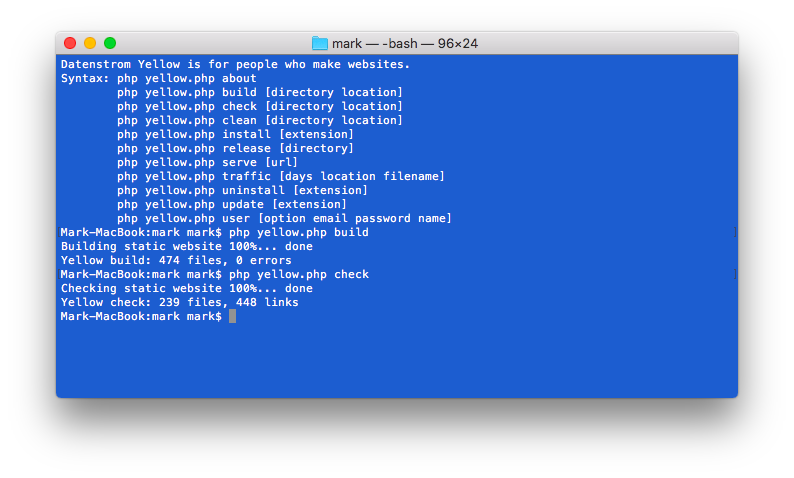
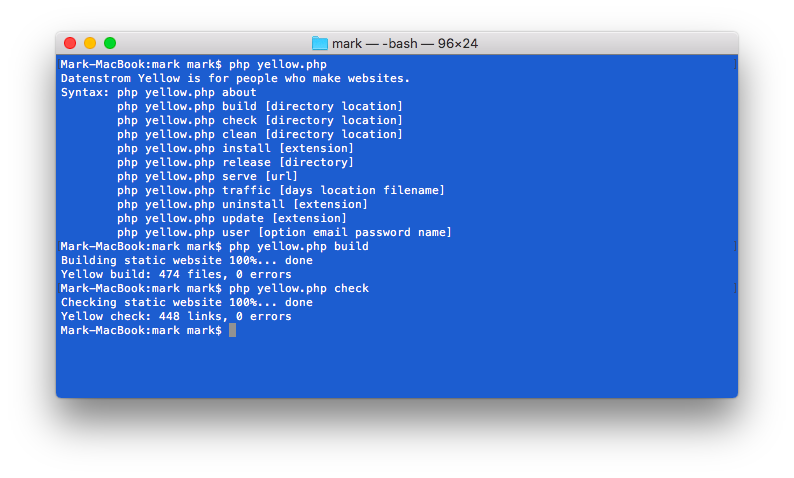
Updated extensions, usability improvements

Changed region(s): [[0.0605, 0.1172, 0.5743, 0.7029]]

diff --git a/features/traffic/traffic.php b/features/traffic/traffic.php
@@ -4,7 +4,7 @@
 // This file may be used and distributed under the terms of the public license.
 
 class YellowTraffic {
-    const VERSION = "0.8.2";
+    const VERSION = "0.8.3";
     const TYPE = "feature";
     public $yellow;         //access to API
     public $days;           //number of days
@@ -64,7 +64,7 @@ class YellowTraffic {
         if (empty($fileName)) {
             $path = $this->yellow->system->get("trafficLogDir");
             $regex = "/^".basename($this->yellow->system->get("trafficLogFile"))."$/";
-            $fileNames = $this->yellow->toolbox->getDirectoryEntries($path, $regex, true, false);
+            $fileNames = array_reverse($this->yellow->toolbox->getDirectoryEntries($path, $regex, true, false));
             list($statusCode, $sites, $content, $files, $search, $errors) = $this->analyseRequests($days, $location, $fileNames);
         } else {
             list($statusCode, $sites, $content, $files, $search, $errors) = $this->analyseRequests($days, $location, array($fileName));
@@ -86,7 +86,8 @@ class YellowTraffic {
         if (!empty($fileNames)) {
             $statusCode = 200;
             $timeStart = $timeFound = time();
-            $timeStop = time() - (60 * 60 * 24 * $days);
+            $timeStop = time() - (60*60*24*$days);
+            $percentShown = -1;
             $staticUrl = $this->yellow->system->get("staticUrl");
             list($scheme, $address, $base) = $this->yellow->lookup->getUrlInformation($staticUrl);
             $locationSearch = $this->yellow->system->get("searchLocation");
@@ -104,6 +105,11 @@ class YellowTraffic {
                             list($line, $ip, $dummy1, $dummy2, $timestamp, $method, $uri, $protocol, $status, $size, $referer, $userAgent) = $matches;
                             $timeFound = strtotime($timestamp);
                             if ($timeFound<$timeStop) break;
+                            $percent = $this->getProgressPercent(($timeStart-$timeFound)/3600, 24*$days, 5, 95);
+                            if ($percentShown!=$percent) {
+                                $percentShown = $percent;
+                                echo "\rCreating traffic analytics $percent%... ";
+                            }
                             $location = $this->getLocation($uri);
                             $referer = $this->getReferer($referer, "$address$base/");
                             if ($status<400) {
@@ -143,6 +149,7 @@ class YellowTraffic {
             unset($search["-"]);
             if ($locationFilter!="/") $search = array();
             $this->days = $timeStart!=$timeFound ? $days : 0;
+            echo "\rCreating traffic analytics 100%... done\n";
         } else {
             $statusCode = 500;
             $path = $this->yellow->system->get("trafficLogDir");
@@ -210,6 +217,14 @@ class YellowTraffic {
     // Return human readable status
     public function getStatusFormatted($statusCode) {
         return $this->yellow->toolbox->getHttpStatusFormatted($statusCode, true);
+    }
+    
+    // Return progress in percent
+    public function getProgressPercent($now, $total, $increments, $max)
+    {
+        $percent = intval(($max / $total) * $now);
+        if ($increments>1) $percent = intval($percent / $increments) * $increments;
+        return min($max, $percent);
     }
     
     // Return previous text line from file, false if not found

diff --git a/features/command/command.php b/features/command/command.php
@@ -4,7 +4,7 @@
 // This file may be used and distributed under the terms of the public license.
 
 class YellowCommand {
-    const VERSION = "0.8.5";
+    const VERSION = "0.8.6";
     const TYPE = "feature";
     const PRIORITY = "3";
     public $yellow;                     //access to API
@@ -263,12 +263,13 @@ class YellowCommand {
                 $statusCode = $this->checkStaticFiles($path, $location);
             } else {
                 $statusCode = 500;
-                $this->files = $this->links = 0;
+                $this->links = 0;
+                $this->errors = 1;
                 $fileName = $this->yellow->system->get("settingDir").$this->yellow->system->get("systemFile");
                 echo "ERROR checking files: Please configure StaticUrl in file '$fileName'!\n";
             }
-            echo "Yellow $command: $this->files file".($this->files!=1 ? "s" : "");
-            echo ", $this->links link".($this->links!=1 ? "s" : "")."\n";
+            echo "Yellow $command: $this->links link".($this->links!=1 ? "s" : "");
+            echo ", $this->errors error".($this->errors!=1 ? "s" : "")."\n";
         } else {
             $statusCode = 400;
             echo "Yellow $command: Invalid arguments\n";
@@ -279,7 +280,7 @@ class YellowCommand {
     // Check static files for broken links
     public function checkStaticFiles($path, $locationFilter) {
         $path = rtrim(empty($path) ? $this->yellow->system->get("staticDir") : $path, "/");
-        $this->files = $this->links = 0;
+        $this->links = $this->errors = 0;
         $regex = "/^[^.]+$|".$this->yellow->system->get("staticDefaultFile")."$/";
         $fileNames = $this->yellow->toolbox->getDirectoryEntriesRecursive($path, $regex, false, false);
         list($statusCodeFiles, $links) = $this->analyseLinks($path, $locationFilter, $fileNames);
@@ -319,16 +320,17 @@ class YellowCommand {
                             if (defined("DEBUG") && DEBUG>=2) echo "YellowCommand::analyseLinks detected url:$url<br/>\n";
                         }
                     }
-                    ++$this->files;
                     if (defined("DEBUG") && DEBUG>=1) echo "YellowCommand::analyseLinks location:$locationSource<br/>\n";
                 } else {
                     $statusCode = 500;
+                    ++$this->errors;
                     echo "ERROR reading files: Can't read file '$fileName'!\n";
                 }
             }
             $this->links = count($links);
         } else {
             $statusCode = 500;
+            ++$this->errors;
             echo "ERROR reading files: Can't find files in directory '$path'!\n";
         }
         return array($statusCode, $links);
@@ -373,6 +375,7 @@ class YellowCommand {
                 } else {
                     $broken["$scheme://$address$base$location -> $url - ".$this->getStatusFormatted($statusCodeUrl)] = $statusCodeUrl;
                 }
+                ++$this->errors;
             }
         }
         echo "\rChecking static website 100%... done\n";

diff --git a/features/edit/edit.php b/features/edit/edit.php
@@ -4,7 +4,7 @@
 // This file may be used and distributed under the terms of the public license.
 
 class YellowEdit {
-    const VERSION = "0.8.6";
+    const VERSION = "0.8.7";
     const TYPE = "feature";
     public $yellow;         //access to API
     public $response;       //web response
@@ -23,12 +23,12 @@ class YellowEdit {
         $this->yellow->system->setDefault("editKeyboardShortcuts", "ctrl+b bold, ctrl+i italic, ctrl+k strikethrough, ctrl+e code, ctrl+s save, ctrl+alt+p preview");
         $this->yellow->system->setDefault("editToolbarButtons", "auto");
         $this->yellow->system->setDefault("editEndOfLine", "auto");
+        $this->yellow->system->setDefault("editNewFile", "page-new-(.*).md");
         $this->yellow->system->setDefault("editUserFile", "user.ini");
         $this->yellow->system->setDefault("editUserPasswordMinLength", "8");
         $this->yellow->system->setDefault("editUserHashAlgorithm", "bcrypt");
         $this->yellow->system->setDefault("editUserHashCost", "10");
         $this->yellow->system->setDefault("editUserHome", "/");
-        $this->yellow->system->setDefault("editNewFile", "page-new-(.*).md");
         $this->yellow->system->setDefault("editLoginRestriction", "0");
         $this->yellow->system->setDefault("editLoginSessionTimeout", "2592000");
         $this->yellow->system->setDefault("editBruteForceProtection", "25");
@@ -1146,7 +1146,7 @@ class YellowEditResponse {
             $toolbarButtons = $this->yellow->system->get("editToolbarButtons");
             if ($toolbarButtons=="auto") {
                 $toolbarButtons = "";
-                if ($this->yellow->extensions->isExisting("markdown")) $toolbarButtons = "format, bold, italic, strikethrough, code, list, link, file";
+                if ($this->yellow->extensions->isExisting("markdown")) $toolbarButtons = "format, bold, italic, strikethrough, code, separator, list, link, file";
                 if ($this->yellow->extensions->isExisting("emojiawesome")) $toolbarButtons .= ", emojiawesome";
                 if ($this->yellow->extensions->isExisting("fontawesome")) $toolbarButtons .= ", fontawesome";
                 if ($this->yellow->extensions->isExisting("draft")) $toolbarButtons .= ", draft";

diff --git a/features/release/release.php b/features/release/release.php
@@ -4,7 +4,7 @@
 // This file may be used and distributed under the terms of the public license.
 
 class YellowRelease {
-    const VERSION = "0.8.6";
+    const VERSION = "0.8.7";
     const TYPE = "feature";
     public $yellow;         //access to API
     public $extensions;     //number of extensions
@@ -46,10 +46,10 @@ class YellowRelease {
             $statusCode = max($statusCode, $this->updateReleaseDirectory($path, $pathExtension));
             $entries = $this->yellow->toolbox->getDirectoryEntriesRecursive($path, "/.*/", true, true);
             foreach ($entries as $entry) {
-                echo "\rCreating release ".$this->getProgressPercent($this->extensions, count($entries), 10, 95)."%... ";
+                echo "\rCreating release files ".$this->getProgressPercent($this->extensions, count($entries), 10, 95)."%... ";
                 $statusCode = max($statusCode, $this->updateReleaseDirectory("$entry/", $pathExtension));
             }
-             echo "\rCreating release 100%... done\n";
+            echo "\rCreating release files 100%... done\n";
         } else {
             $statusCode = 500;
             $this->extensions = 0;

diff --git a/features/edit/README.md b/features/edit/README.md
@@ -1,4 +1,4 @@
-Edit 0.8.6
+Edit 0.8.7
 ==========
 Edit your website in a web browser. [See demo](https://developers.datenstrom.se).
 
@@ -34,6 +34,7 @@ The following settings can be configured in file `system/settings/system.ini`:
 `EditUploadExtensions` = file extensions for upload, `none` to disable  
 `EditKeyboardShortcuts` = keyboard shortcuts and commands  
 `EditToolbarButtons` = toolbar buttons, `none` to disable  
+`EditNewFile` = content file for new page  
 `EditEndOfLine` = line endings, e.g. `auto`, `lf`, `crlf`  
 `EditLoginRestriction` = enable [login restriction](https://developers.datenstrom.se/help/security-configuration#login-restriction), 1 or 0  
 `EditLoginSessionTimeout` = login session in seconds  
@@ -56,7 +57,7 @@ Configuring different toolbar buttons:
 
 ```
 EditToolbarButtons: auto 
-EditToolbarButtons: format, bold, italic, strikethrough, code, list, link, file, undo, redo, preview, markdown
+EditToolbarButtons: format, bold, italic, strikethrough, code, separator, list, link, file, undo, redo
 EditToolbarButtons: bold, italic, h1, h2, h3, code, quote, ul, ol, tl, link, file, preview, markdown
 EditToolbarButtons: format, bold, italic, separator, quote, code, link, file, separator, emojiawesome
 ```

diff --git a/features/traffic/README.md b/features/traffic/README.md
@@ -1,4 +1,4 @@
-Traffic 0.8.2
+Traffic 0.8.3
 =============
 Create traffic analytics from web server log files.
 

diff --git a/features/release/README.md b/features/release/README.md
@@ -1,4 +1,4 @@
-Release 0.8.6
+Release 0.8.7
 =============
 Create releases for website update.
 

diff --git a/features/command/README.md b/features/command/README.md
@@ -1,4 +1,4 @@
-Command 0.8.5
+Command 0.8.6
 =============
 Run commands in a terminal window.
 
